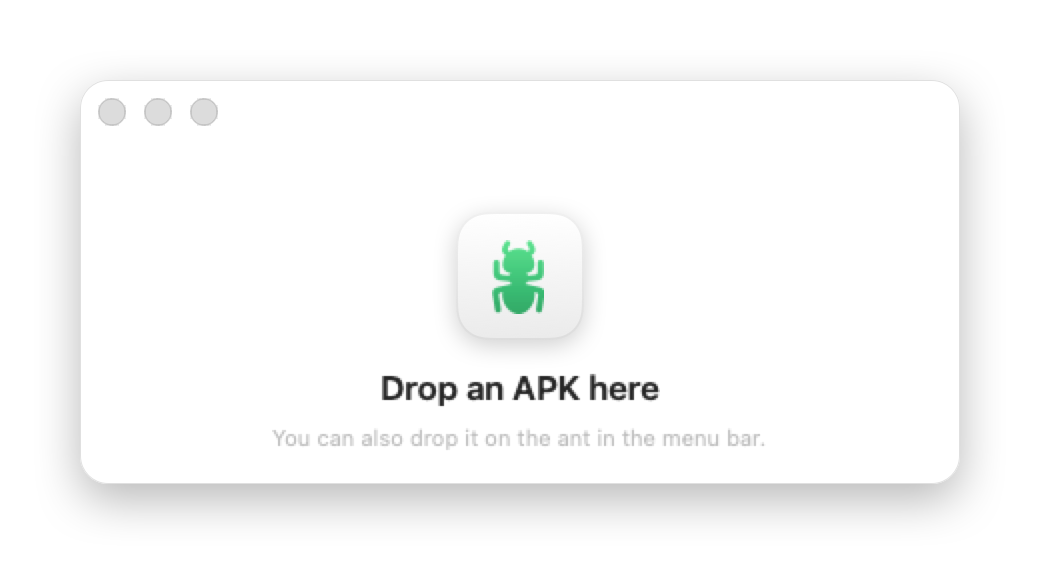
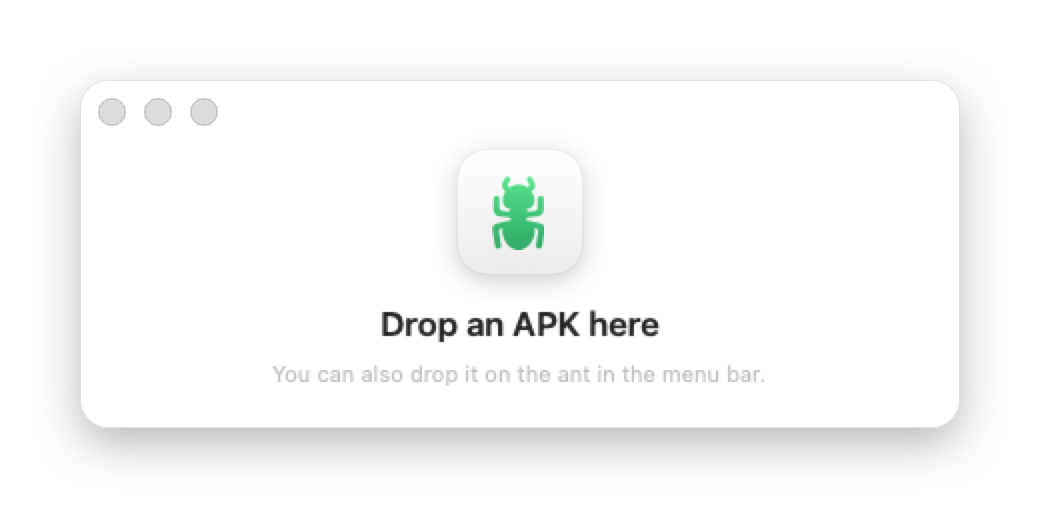
fix: window bottom padding and titlebar inset, refresh README screenshot

diff --git a/main.swift b/main.swift
@@ -193,7 +193,7 @@ struct StatusView: View {
             Button("", action: onClose).keyboardShortcut(.cancelAction).hidden().frame(height: 0)
         }
         .padding(.horizontal, 20)
-        .padding(.bottom, 16)
+        .padding(.bottom, 20)
         .frame(width: 440)
         .background(
             LinearGradient(colors: [Color(nsColor: .windowBackgroundColor), Color(nsColor: .controlBackgroundColor)],
@@ -324,6 +324,7 @@ final class StatusWindow: NSObject {
                                                             onClose: { [weak self] in self?.close() },
                                                             onDrop: { [weak self] in self?.onDrop?($0) }))
         host.sizingOptions = .preferredContentSize // window follows the SwiftUI size
+        host.safeAreaRegions = [] // top padding already clears the transparent title bar
         window.contentViewController = host
     }
 

diff --git a/README.md b/README.md
@@ -4,7 +4,6 @@ A tiny macOS menu bar app to push APKs to an Android phone. Drop an APK on the a
 
 <p align="center">
   <img src="docs/window-idle.png" width="420" alt="Quick ADB window, waiting for an APK">
-  <img src="docs/window-drop.png" width="420" alt="Dropping an APK on the window">
 </p>
 
 ## Features
@@ -19,16 +18,6 @@ A tiny macOS menu bar app to push APKs to an Android phone. Drop an APK on the a
 - **Take screenshot**: saves the phone screen as a PNG on the Desktop.
 - Devices show by name (e.g. *Google Pixel 8a*), not by serial.
 
-<p align="center">
-  <img src="docs/window-installing.png" width="420" alt="Installing, with details">
-  <img src="docs/window-success.png" width="420" alt="Installed">
-</p>
-
-The **Details** panel shows every command run, its output, exit code and duration, so a failed install is easy to debug.
-
-<p align="center">
-  <img src="docs/window-no-device.png" width="420" alt="No device connected">
-</p>
 
 ## Menu
 
